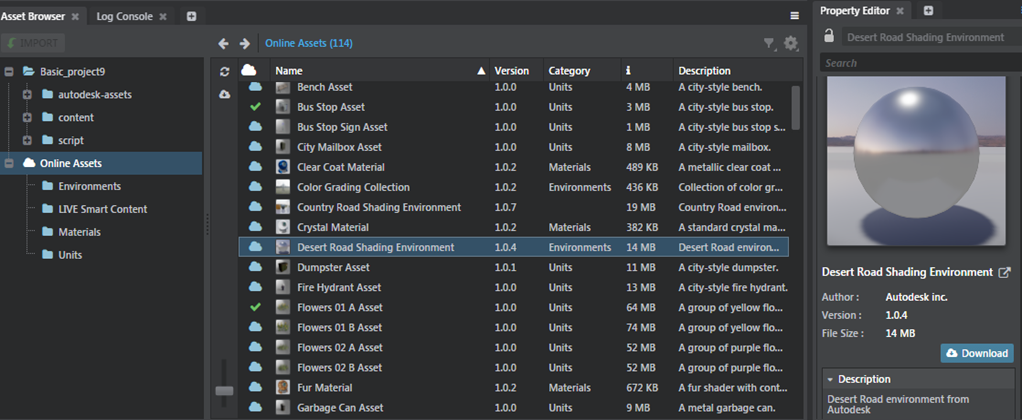
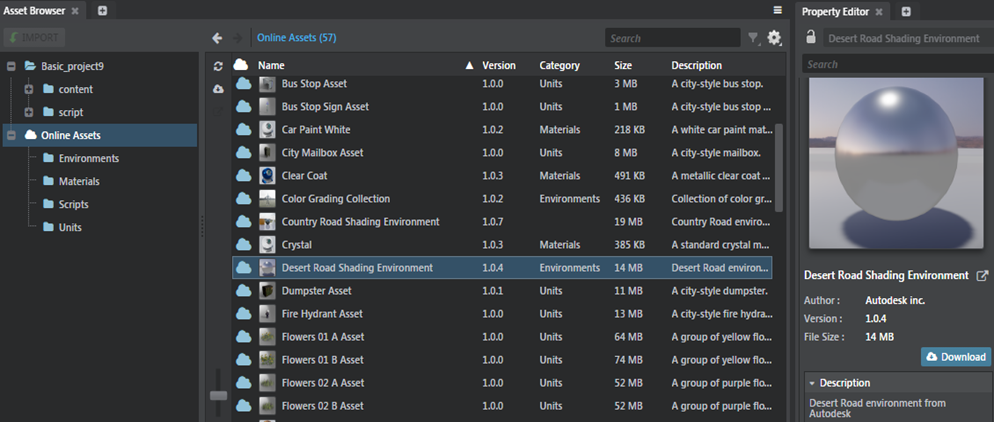
Add online asset search and particle editor updates

diff --git a/source/stingray_help/creating_effects/create_edit_particles.md b/source/stingray_help/creating_effects/create_edit_particles.md
@@ -1,5 +1,7 @@
 # Create and edit particle effects
 
+![UPDATED](../images/updated.png)
+
 > ![](../images/icon_video.png) For video tutorials on creating particle effects, see <a href="http://area.autodesk.com/learning/creating-particle-effects-in-stingray" target="blank">Particle Effects in Stingray</a>.
 
 The **Particle Editor** Tool (**Window > Particle Editor**) lets you create new particles, modify them and preview the effects in the viewport within the tool. You can open and modify multiple particles at the same time, view History ![](../images/icon_partEd_history.png) of actions performed, and use the Respawn ![](../images/icon_particle_respawn.png) and Pause/Resume ![](../images/icon_partEd_pause.png) icons to respawn the particle effect and pause/resume the particle effects preview.
@@ -15,7 +17,7 @@ The **Particle Editor** Tool (**Window > Particle Editor**) lets you create new 
 	-	Right-click in file view area of the **Asset Browser** and select **Create > Particle Effect**, or click the **Create Asset** icon ![](../images/icon_createAsset.png) and select **Create Particle Effect**. Enter a name for the new particle effect.
 
 
-	A particle asset is created in the **Asset Browser**.
+	A particle asset and a particle material is created in the **Asset Browser**.
 
 	![](../images/create_particle.png)
 
@@ -25,7 +27,7 @@ The **Particle Editor** Tool (**Window > Particle Editor**) lets you create new 
 
 **To edit a particle effect:**
 
-The main way you'll work with particles is by modifying the properties of the particle system.  Particle systems are simply a group of commands that guide each of your particles from their birth to their death.
+The main way you'll work with particles is by modifying the properties of the particle system. Particle systems are simply a group of commands that guide each of your particles from their birth to their death.
 
 The default particle system is called System1, and you can add and remove controllers to any system to customize the particle effect. Each particle effect can have multiple systems, and each system can have multiple controllers.
 
@@ -45,9 +47,17 @@ The default particle system is called System1, and you can add and remove contro
 
 3. See the components of System 1.
 
-	By default, this system contains Emitter:Rate, Size, Color, and Billboard Visualizer components. For your particle effect to work properly you only need an **Emitter:Rate** and a **Size** component.
+	By default, this system contains Emitter:Rate, Size, Color, and Billboard Visualizer components. [![NEW](../images/new.png "What else is new in v1.8?")](../release_notes/readme_1.8.html)The Billboard Visualizer uses the custom particle material created for the particle effect. Replace this material with a material graph (containing a Particle Base shader node) of your choice.
 
-6. Select each component to view the properties available for editing.
+	[![NEW](../images/new.png "What else is new in v1.8?")](../release_notes/readme_1.8.html)
+
+	>**Note:** If you delete the Billboard Visualizer component, the particle effect won’t display. You can use a non-rendering particle system to act as a trail spawner for other particle systems.
+
+4. Select each component to view the properties available for editing.
+
+[![NEW](../images/new.png "What else is new in v1.8?")](../release_notes/readme_1.8.html)
+
+>**Tip:** Reorder the particle effects by dragging and dropping the systems in your particle effect, and copy and paste the controllers and systems using the right-click **Copy**, **Paste** context menu options or hotkeys (Ctrl + C, Ctrl + V).
 
 **To add additional systems to a particle effect:**
 

diff --git a/source/stingray_help/release_notes/readme_1.8.md b/source/stingray_help/release_notes/readme_1.8.md
@@ -31,16 +31,36 @@ Sections in this topic:
 
 -	You can copy and paste particle effect systems and controllers. Select a system or controller, and either right-click to select Copy (and Paste) or use the Ctrl + C, Ctrl + V hotkeys to copy and paste the systems.
 
--	You can also drag and drop the systems around to reorder the effects in a particle.
+-	Drag and drop the systems around to reorder the effects in a particle.
 
--	A particle material exists when you create a new particle effect.
+-	A particle material exists when you create a new particle effect. See ~{ Create and edit particle effects }~.
 
 ### Asset Browser improvements
 
-Searching for online assets now indicates the number of results next to the Online Assets in the tree view of the Asset Browser. You can clear the Search results by clicking the Clear icon in the Search field.
+Searching for online assets indicates the number of results next to the **Online Assets** in the tree view of the **Asset Browser**. You can clear the *Search* results by clicking the Clear icon in the Search field.
 
-You can also locate an online asset installed in your project using a new option **Locate in Project** from the Online Assets view. Select an installed asset (indicated with a green checkmark) and either right-click and select **Locate in Project** or click the icon.
+![](../images/online_assets_locate.png)
 
+You can also locate an online asset installed in your project using a new option **Locate in Project** from the **Online Assets** view. Select an installed asset (indicated with a green checkmark) and either click the ![](../images/icon_asset_browser_locate.png) icon or right-click and select **Locate in Project**. See ~{ Asset Browser }~.
+
+### Stingray resource files
+
+You can use the Script Editor to open and edit Stingray resource files like
+
+-	 Render Configuration (.render_config)
+-	 Shader Node (.shader_node)
+-	Shader (.shader),  
+-	Shading Environment Mapping (.shading_environment_mapping),
+-	Entity Component (.component),
+-	Stingray Create Panel Object (.object_creator_item),
+-	Physics Properties (.physics_properties ),
+-	Network Config (.network_config),
+-	Surface Properties (.surface_properties), and
+-	Stingray Type Description(.type) files.
+
+### Texture Manager
+
+Check out the revamped Texture Manager with improved texture loading and filtering.
 
 [Return to top](#top)
 

diff --git a/source/stingray_help/getting_started/common_windows/asset_browser.md b/source/stingray_help/getting_started/common_windows/asset_browser.md
@@ -1,5 +1,7 @@
 # Asset Browser
 
+![UPDATED](../../images/updated.png)
+
 - **Window > Asset Browser**
 
 The **Asset Browser** is the main way to browse and import assets in your game project. It includes two main view panels, the folder or tree view, and the file view. Both areas include several controls that let you browse or search for assets efficiently.
@@ -72,6 +74,12 @@ Use the **Online Assets** tab in the Tree view to browse, search and find online
   - Select an asset and click the **Download** button in the **Property Editor**.
 
 Click the yellow icon ![](../../images/icon_status_bar_cancel_progress.png) to cancel downloading of the asset. The online assets are not listed in the Asset Browser if the Online Assets server is disconnected from the cloud services.
+
+[![NEW](../../images/new.png "What else is new in v1.8?")](../../release_notes/readme_1.8.html)
+
+Use the Search field to search for an online asset. The number of matching assets are listed next to the Online Assets tab.
+
+  >**Tip**: To view or locate a downloaded asset in your project, select an installed asset (indicated with a green checkmark) and either click ![](../../images/icon_asset_browser_locate.png) or right-click and select **Locate in Project**.
 
 ---
 Related topics:

diff --git a/source/stingray_help/creating_effects/ew_create_particles.md b/source/stingray_help/creating_effects/ew_create_particles.md
@@ -8,11 +8,11 @@
 
 3.	Enter 'sparks' as the name for the new particle effect.
 
-	A particle asset is created in the **Asset Browser**.
+	A particle asset is created in the **Asset Browser**. A particle material is also created for the particle effect in the Asset Browser.
 
 	![](../images/create_particle.png)
 
-	You now have your first particle effect asset.  Now, lets make it do something.
+	You now have your first particle effect asset. Now, lets make it do something.
 
 ##Step 2. Modify properties of the particle system
 
